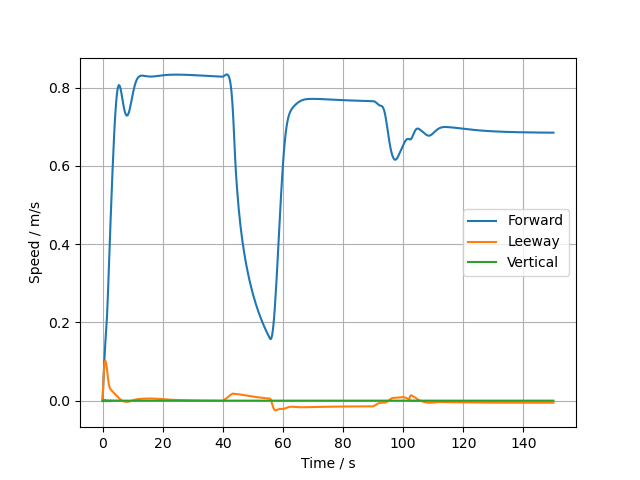
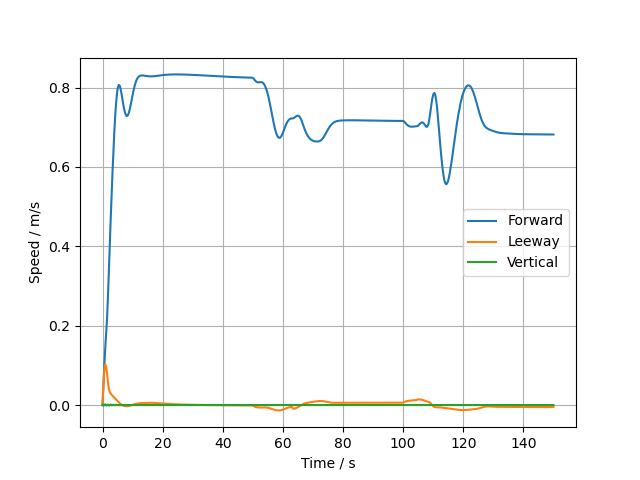
Czyszczenie kodu ptII

diff --git a/stda-sailboat-simulator/src/run.py b/stda-sailboat-simulator/src/run.py
@@ -14,7 +14,7 @@ def main():
     # save=False
 
     scenario_1(save_fig=save_figs)
-    scenario_0(save_fig=save_figs)
+    # scenario_0(save_fig=save_figs)
 
     plt.show()
 
@@ -81,14 +81,14 @@ def scenario_1(save_fig=False):
     N_steps = int(t_end / sample_time)
     # initial values
     x0 = zeros(n_states)
-    x0[VEL_X] = 0.
+    x0[VEL_X] = 0.  # po co to jeśli wcześniej zeros()???
 
     if actor_dynamics:
         x0[SAIL_STATE] = 48 * pi / 180
 
     x, t, r, sail, ref_heading = init_data_arrays(n_states, N_steps, x0)
 
-    if True:
+    if True:        # Po chuj to???
         x2, t2, r2, sail2, ref_heading = init_data_arrays(n_states, N_steps, x0)
 
     integrator, controller = init_integrator(x0, sample_time)
@@ -101,16 +101,9 @@ def scenario_1(save_fig=False):
     # controller2.KI = controller2.KI /100
     # controller2.calculate_controller_params(YAW_TIMECONSTANT, Q=diag([1E-1, 1, 5]), r=ones((1,1))*1000)
 
-    # reference trajectory heading    
-
-    # ref_heading[:int(30/sample_time)] = -.2*pi*0
-
-    ref_heading[int(40 / sample_time):] = 1.2 * pi
-
-    # ref_heading[int(30/sample_time):int(33/sample_time)] = 0.8*pi
-    # ref_heading[int(30/sample_time):] = .9*pi
-
-    ref_heading[int(90 / sample_time):] = .35 * pi
+    ref_heading[:] = math.radians(0)
+    ref_heading[int(50 / sample_time):] = math.radians(100)
+    ref_heading[int(100 / sample_time):] = math.radians(60)
 
     # ref_heading = smooth_reference(ref_heading, int(5/sample_time))
 
@@ -140,10 +133,10 @@ def scenario_1(save_fig=False):
     x, t, separation, keel, sail_force, sail, r = simulate(N_steps, x, t, r, sail, environment, controller,
                                                            integrator, sample_time, sail_sampletime, ref_heading, wind,
                                                            sail_angle)
-    x2, t2, separation2, keel2, sail_force2, sail2, r2 = simulate(N_steps, x2, t2, r2, sail, environment, controller,
-                                                                  integrator2, sample_time, sail_sampletime,
-                                                                  ref_heading,
-                                                                  wind, sail_angle)
+    # x2, t2, separation2, keel2, sail_force2, sail2, r2 = simulate(N_steps, x2, t2, r2, sail, environment, controller,
+    #                                                               integrator2, sample_time, sail_sampletime,
+    #                                                               ref_heading,
+    #                                                               wind, sail_angle)
 
     # comp_route(x, x2)
 
@@ -330,8 +323,8 @@ def simulate(
         # rudder_angle calculation
         speed = sqrt(x[VEL_X, i] ** 2 + x[VEL_Y, i] ** 2)
         drift = arctan2(x[VEL_Y, i], x[VEL_X, i])
-        env[RUDDER_ANGLE] = controller.controll(ref_heading[i], x[YAW, i], x[YAW_RATE, i], speed, x[ROLL, i],
-                                                drift_angle=drift)
+        env[RUDDER_ANGLE] = controller.control(ref_heading[i], x[YAW, i], x[YAW_RATE, i], speed, x[ROLL, i],
+                                               drift_angle=drift)
         # if t[i] < 80:
         r[i] = env[RUDDER_ANGLE]
         # else:

diff --git a/stda-sailboat-simulator/src/headingController.py b/stda-sailboat-simulator/src/headingController.py
@@ -90,7 +90,7 @@ class HeadingController(object):
 
         return list(K)
 
-    def controll(self, desired_heading, heading, yaw_rate, speed, roll, drift_angle=0):
+    def control(self, desired_heading, heading, yaw_rate, speed, roll, drift_angle=0):
 
         # calculate error, difference and sum of error
         heading_error = desired_heading - heading

diff --git a/stda-sailboat-simulator/src/sdbx.py b/stda-sailboat-simulator/src/sdbx.py
@@ -1,11 +1,9 @@
 import time
+import math
 
-now = time.time()
-print(type(now), int(now))
-time.sleep(5)
-now = time.time()
-print(type(now), int(now))
-a = (3 + 5) - \
-    (5 + 4)
+print(type(27 // 4))
+print(type(int(27 // 4)))
+
+
 
 
